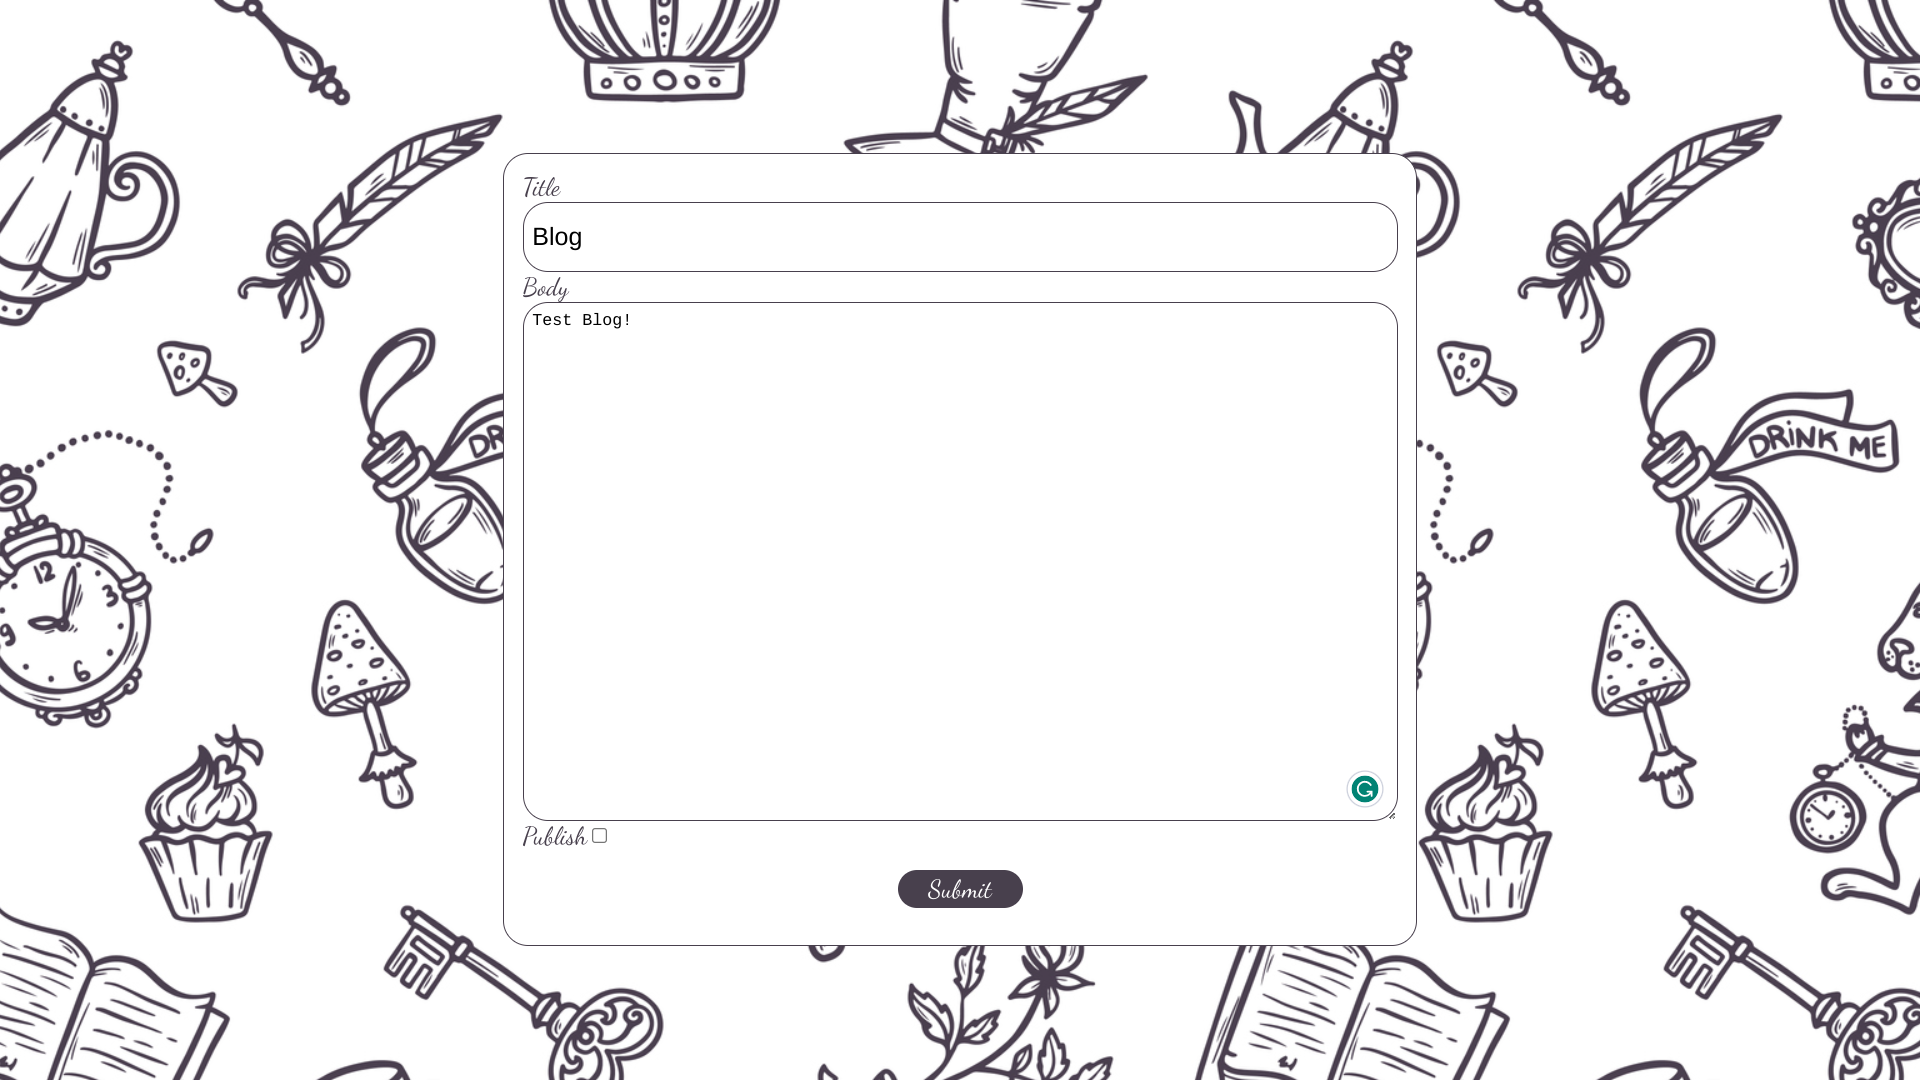
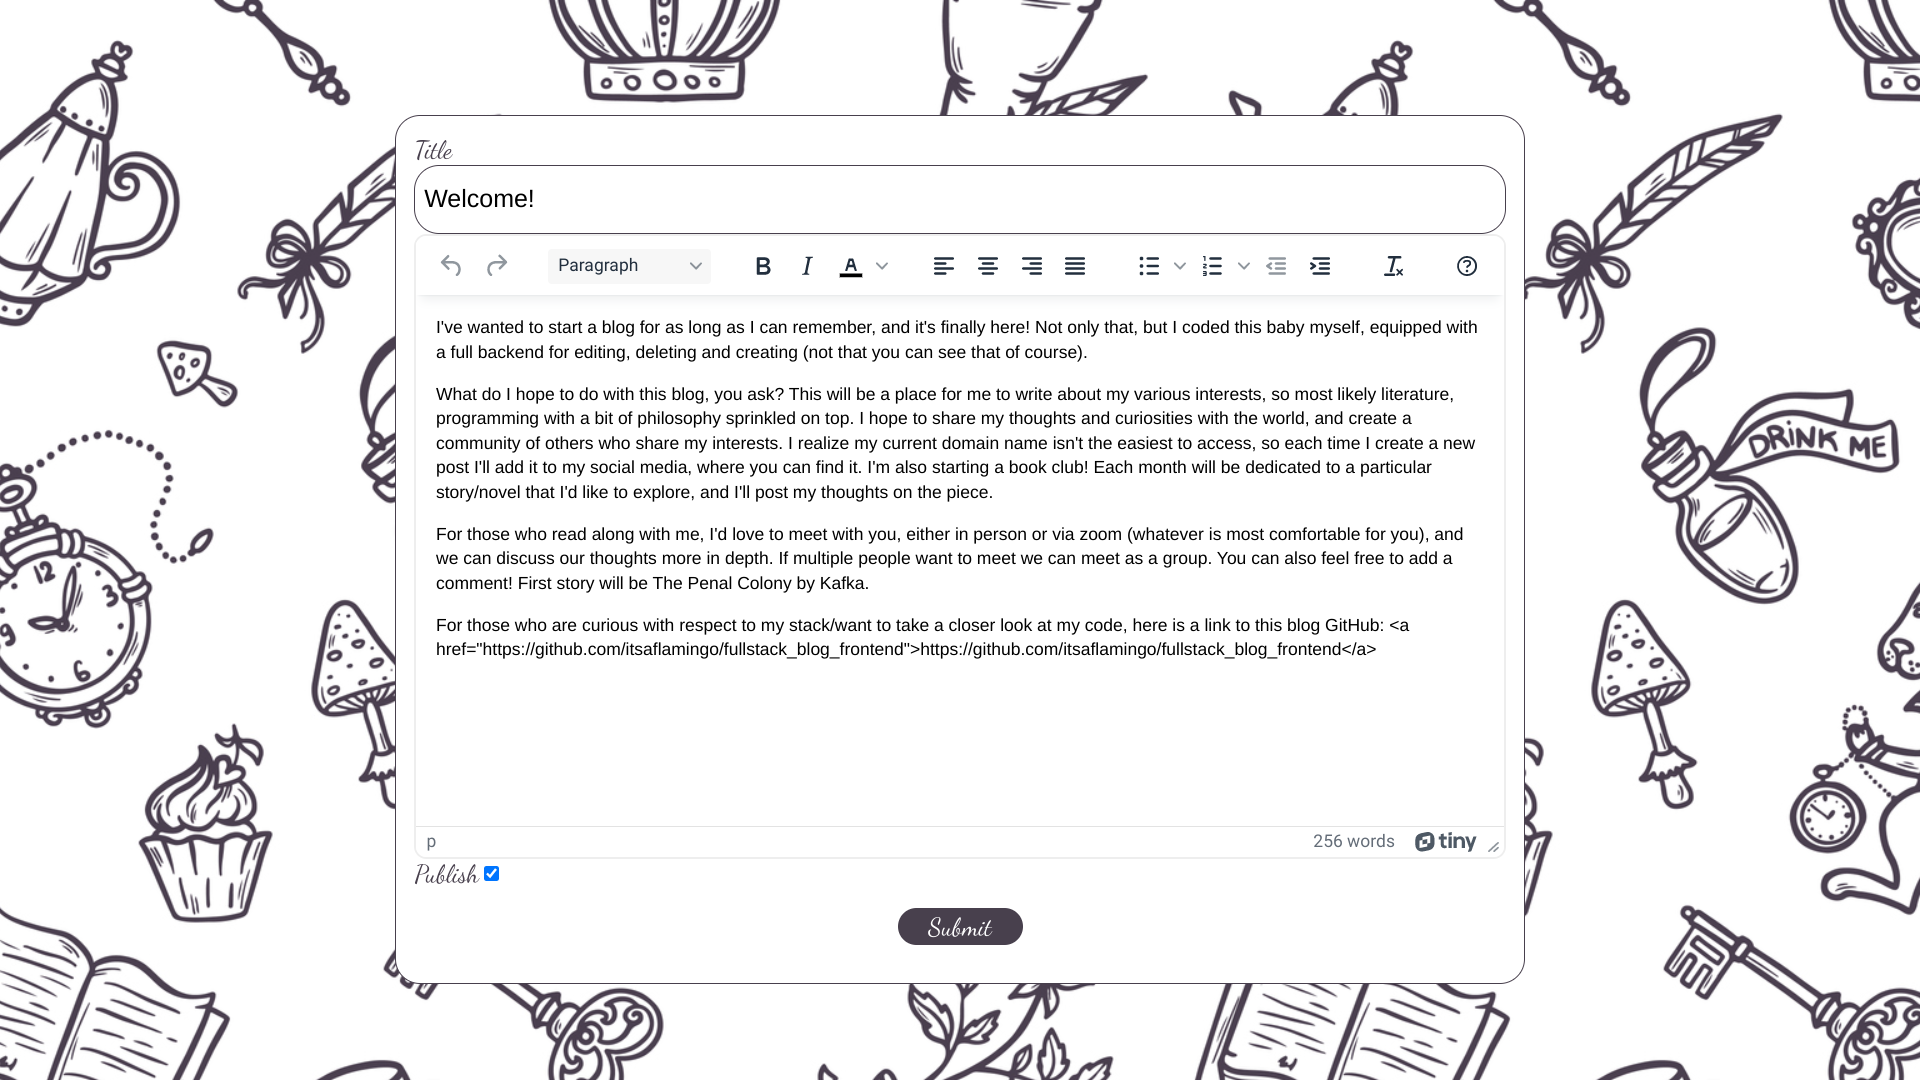
Updated README

diff --git a/README.md b/README.md
@@ -1,5 +1,5 @@
 # Fullstack Blog
-Blog created with Javascript, NodeJS, Express.js, Mongoose/MongoDB, React
+Blog created with Javascript, NodeJS, Express.js, Mongoose/MongoDB, React, TinyMCE
 
 - [Live Demo](https://itsaflamingo.github.io/fullstack_blog_frontend/) :point_left:
 - [Link to Backend](https://github.com/itsaflamingo/full_stack_blog_backend)
@@ -12,6 +12,7 @@ Blog created with Javascript, NodeJS, Express.js, Mongoose/MongoDB, React
 - CRUD operations on blog posts
 - Sign out
 - Responsive design
+- TinyMCE rich text editor
 
 ## Screenshots
 
@@ -28,5 +29,6 @@ Blog created with Javascript, NodeJS, Express.js, Mongoose/MongoDB, React
 - [Mongoose.js](https://mongoosejs.com/)
 - [PassportJS](https://www.passportjs.org/)
 - [Jsonwebtoken](https://www.npmjs.com/package/jsonwebtoken)
+- [TinyMCE](https://www.tiny.cloud/docs/tinymce/6/cloud-quick-start/)
 
 
